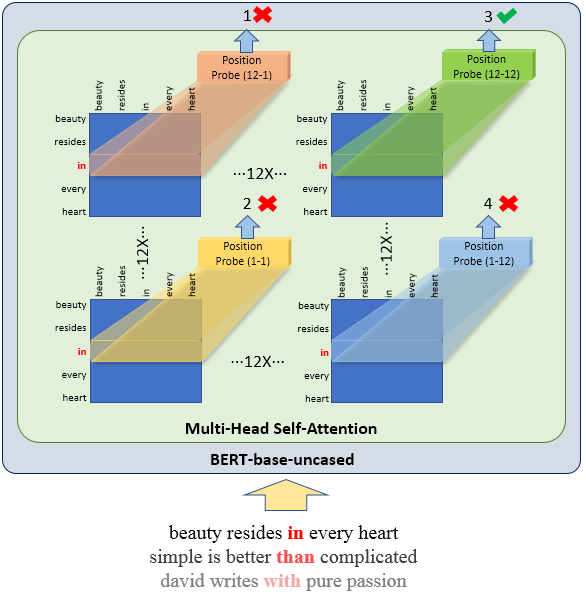
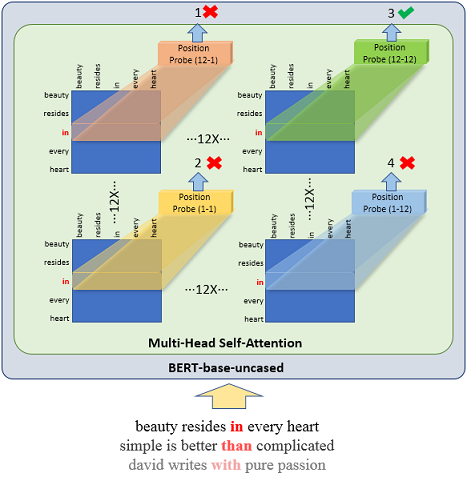
mod readme.md resize splash

diff --git a/README.md b/README.md
@@ -2,9 +2,7 @@
 This repository contains code to reproduce the results in paper *Linear Positions in Neural Network Language Models: A Novel Path to Learning and Representing Linguistic Regularities*.
 It includes code for pre-processing Leipzig news corpora, quantitative and visualized analysis along with probing classifiers for linear-position-distributions.
 
-<div style="width: 60%; height: 60%">
 ![Position Probe](pos_probe.png)
-</div>
 
 ## Requirements
 All scirpts in this repo require Python 3.6+ to run properly.
